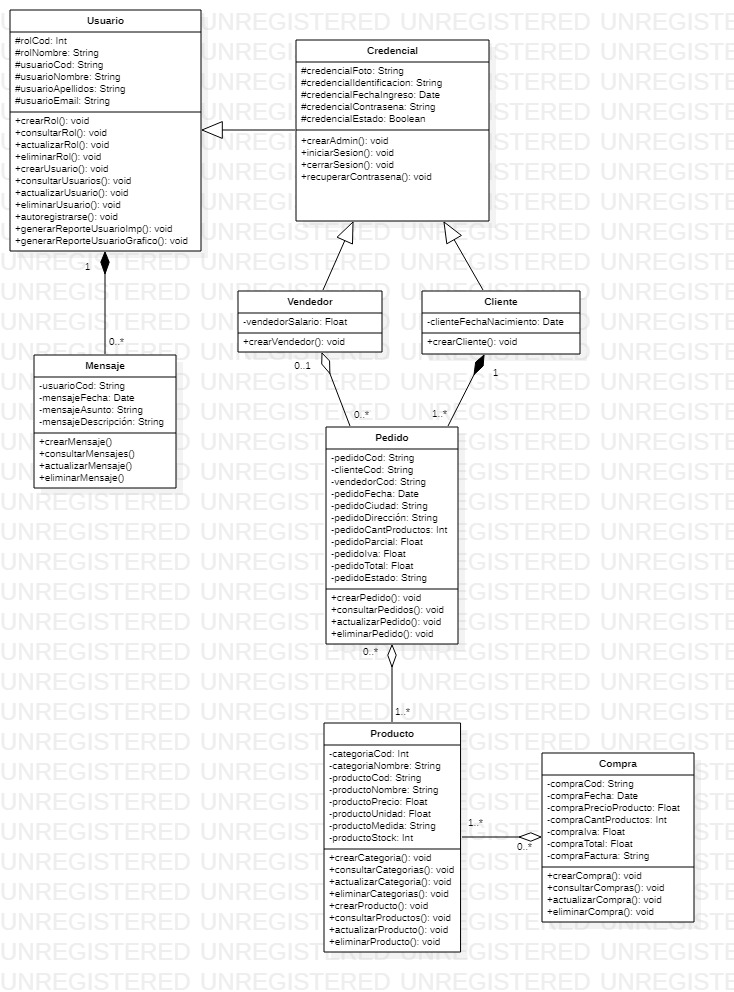
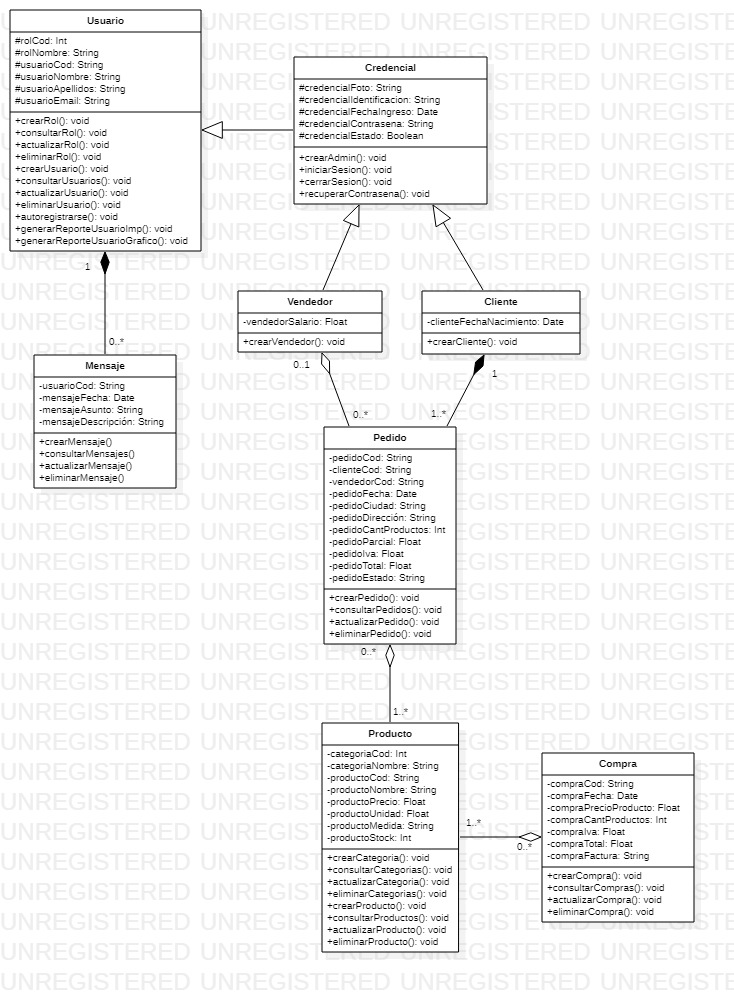
Ajustando documentos

Changed region(s): [[0.4196, 0.4062, 0.6294, 0.9688], [0.3896, 0.0312, 0.6894, 0.25]]

diff --git a/220501095-modelado_artefactos_software/01-elaborar_artefactos_diseño/01_diagrama_clases/html-docs/contents/cc89879ea89cdac6c26f078bfab4cc97.html b/220501095-modelado_artefactos_software/01-elaborar_artefactos_diseño/01_diagrama_clases/html-docs/contents/cc89879ea89cdac6c26f078bfab4cc97.html
@@ -103,17 +103,17 @@
           
             
             
-          <area shape="rect" coords="324,723,460.55859375,952" href="8629eef11756515c8090825c9fd013e9.html">  
+          <area shape="rect" coords="322,723,458.55859375,952" href="8629eef11756515c8090825c9fd013e9.html">  
             
           
             
             
-          <area shape="rect" coords="326,427,458,644" href="cbd1e4a6f371a818e4ddf0bc16c899e4.html">  
+          <area shape="rect" coords="324,427,456,644" href="cbd1e4a6f371a818e4ddf0bc16c899e4.html">  
             
           
             
             
-          <area shape="rect" coords="296,40,489,221" href="bb23052bbfb6cf013d5f4e7b431a2999.html">  
+          <area shape="rect" coords="294,57,487,204" href="bb23052bbfb6cf013d5f4e7b431a2999.html">  
             
           
             
